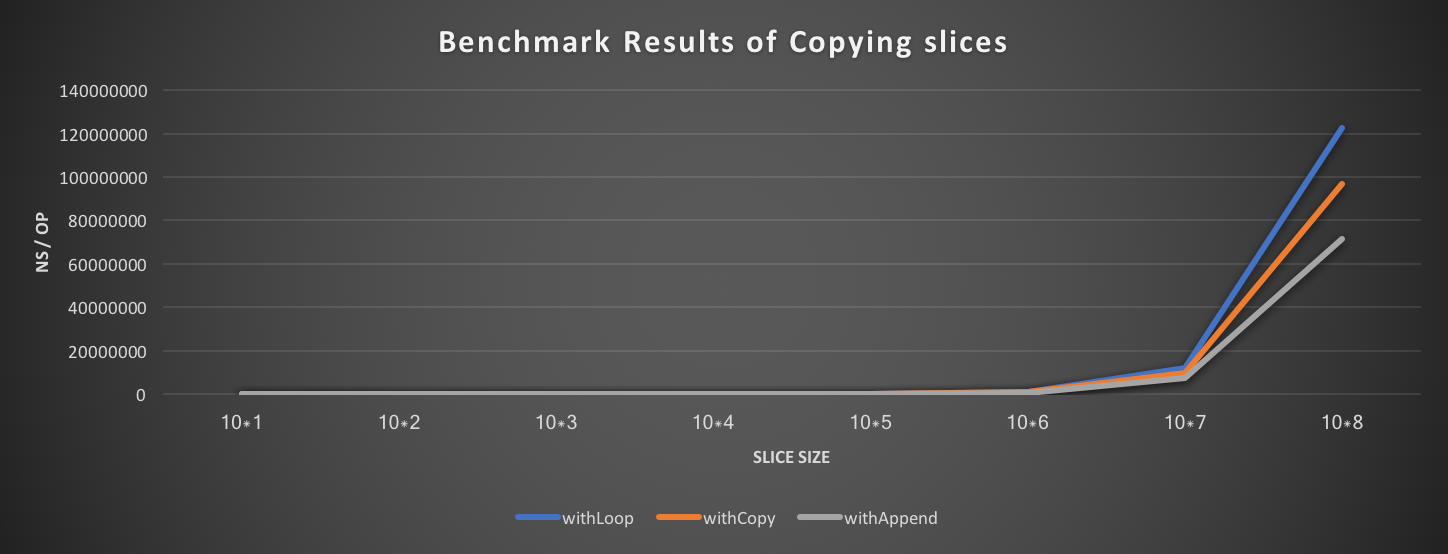
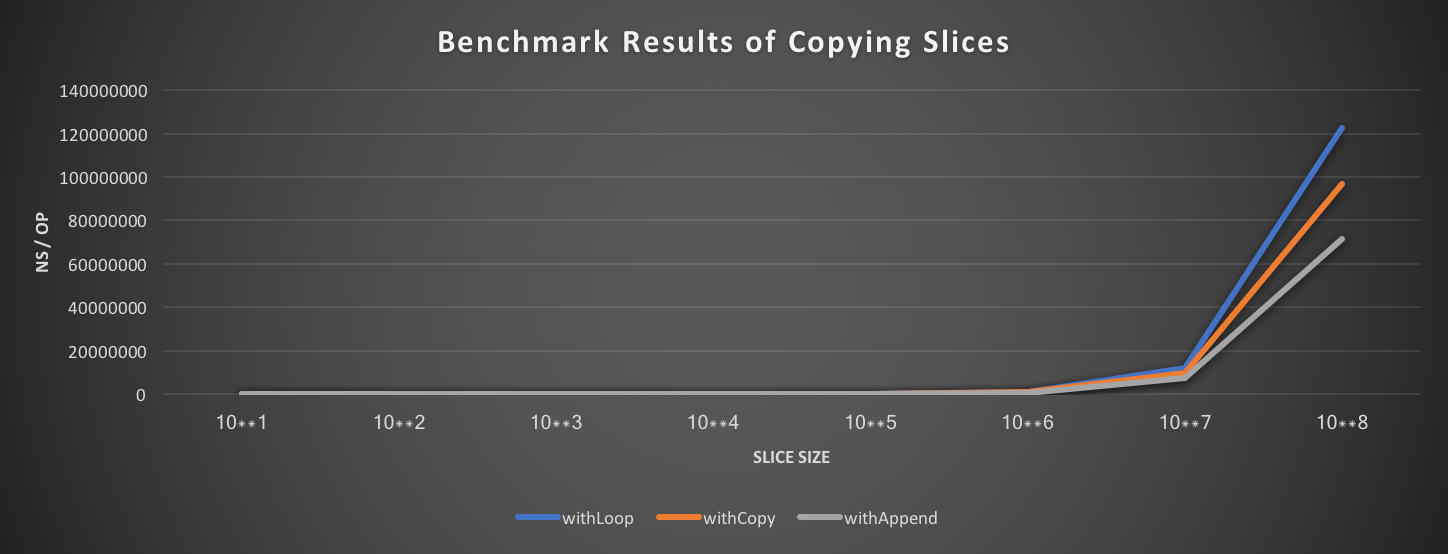
update

diff --git a/slice_copy/main_test.go b/slice_copy/main_test.go
@@ -39,7 +39,7 @@ func BenchmarkCopy(b *testing.B) {
 		n *= 10
 		src := newSlice(n)
 		for _, copyFunc := range copyFuncs {
-			b.Run(fmt.Sprintf("10*%d_%s", i, copyFunc.name), func(b *testing.B) {
+			b.Run(fmt.Sprintf("10**%d_%s", i, copyFunc.name), func(b *testing.B) {
 				for j := 0; j < b.N; j++ {
 					dst := copyFunc.f(src)
 					if src[0] != dst[0] {

diff --git a/slice_copy/README.md b/slice_copy/README.md
@@ -2,30 +2,30 @@
 
 ```bash
 $ go test -bench . -benchmem
-BenchmarkCopy/10*1_withLoop-4         	30000000	        38.6 ns/op	      80 B/op	       1 allocs/op
-BenchmarkCopy/10*1_withCopy-4         	30000000	        37.8 ns/op	      80 B/op	       1 allocs/op
-BenchmarkCopy/10*1_withAppend-4       	30000000	        42.8 ns/op	      80 B/op	       1 allocs/op
-BenchmarkCopy/10*2_withLoop-4         	10000000	       179 ns/op	     896 B/op	       1 allocs/op
-BenchmarkCopy/10*2_withCopy-4         	10000000	       141 ns/op	     896 B/op	       1 allocs/op
-BenchmarkCopy/10*2_withAppend-4       	10000000	       148 ns/op	     896 B/op	       1 allocs/op
-BenchmarkCopy/10*3_withLoop-4         	 1000000	      1452 ns/op	    8192 B/op	       1 allocs/op
-BenchmarkCopy/10*3_withCopy-4         	 1000000	      1081 ns/op	    8192 B/op	       1 allocs/op
-BenchmarkCopy/10*3_withAppend-4       	 1000000	      1081 ns/op	    8192 B/op	       1 allocs/op
-BenchmarkCopy/10*4_withLoop-4         	  100000	     10507 ns/op	   81920 B/op	       1 allocs/op
-BenchmarkCopy/10*4_withCopy-4         	  200000	      7859 ns/op	   81920 B/op	       1 allocs/op
-BenchmarkCopy/10*4_withAppend-4       	  200000	      6140 ns/op	   81920 B/op	       1 allocs/op
-BenchmarkCopy/10*5_withLoop-4         	   10000	    110424 ns/op	  802816 B/op	       1 allocs/op
-BenchmarkCopy/10*5_withCopy-4         	   20000	     96171 ns/op	  802816 B/op	       1 allocs/op
-BenchmarkCopy/10*5_withAppend-4       	   20000	     61012 ns/op	  802816 B/op	       1 allocs/op
-BenchmarkCopy/10*6_withLoop-4         	    2000	   1074627 ns/op	 8003584 B/op	       1 allocs/op
-BenchmarkCopy/10*6_withCopy-4         	    2000	    944862 ns/op	 8003584 B/op	       1 allocs/op
-BenchmarkCopy/10*6_withAppend-4       	    2000	    543883 ns/op	 8003584 B/op	       1 allocs/op
-BenchmarkCopy/10*7_withLoop-4         	     100	  11845974 ns/op	80003072 B/op	       1 allocs/op
-BenchmarkCopy/10*7_withCopy-4         	     200	   9444783 ns/op	80003072 B/op	       1 allocs/op
-BenchmarkCopy/10*7_withAppend-4       	     200	   7172734 ns/op	80003072 B/op	       1 allocs/op
-BenchmarkCopy/10*8_withLoop-4         	      10	 122678266 ns/op	800006144 B/op	       1 allocs/op
-BenchmarkCopy/10*8_withCopy-4         	      20	  96970846 ns/op	800006144 B/op	       1 allocs/op
-BenchmarkCopy/10*8_withAppend-4       	      20	  71296331 ns/op	800006144 B/op	       1 allocs/op
+BenchmarkCopy/10**1_withLoop-4         	30000000	        38.6 ns/op	      80 B/op	       1 allocs/op
+BenchmarkCopy/10**1_withCopy-4         	30000000	        37.8 ns/op	      80 B/op	       1 allocs/op
+BenchmarkCopy/10**1_withAppend-4       	30000000	        42.8 ns/op	      80 B/op	       1 allocs/op
+BenchmarkCopy/10**2_withLoop-4         	10000000	       179 ns/op	     896 B/op	       1 allocs/op
+BenchmarkCopy/10**2_withCopy-4         	10000000	       141 ns/op	     896 B/op	       1 allocs/op
+BenchmarkCopy/10**2_withAppend-4       	10000000	       148 ns/op	     896 B/op	       1 allocs/op
+BenchmarkCopy/10**3_withLoop-4         	 1000000	      1452 ns/op	    8192 B/op	       1 allocs/op
+BenchmarkCopy/10**3_withCopy-4         	 1000000	      1081 ns/op	    8192 B/op	       1 allocs/op
+BenchmarkCopy/10**3_withAppend-4       	 1000000	      1081 ns/op	    8192 B/op	       1 allocs/op
+BenchmarkCopy/10**4_withLoop-4         	  100000	     10507 ns/op	   81920 B/op	       1 allocs/op
+BenchmarkCopy/10**4_withCopy-4         	  200000	      7859 ns/op	   81920 B/op	       1 allocs/op
+BenchmarkCopy/10**4_withAppend-4       	  200000	      6140 ns/op	   81920 B/op	       1 allocs/op
+BenchmarkCopy/10**5_withLoop-4         	   10000	    110424 ns/op	  802816 B/op	       1 allocs/op
+BenchmarkCopy/10**5_withCopy-4         	   20000	     96171 ns/op	  802816 B/op	       1 allocs/op
+BenchmarkCopy/10**5_withAppend-4       	   20000	     61012 ns/op	  802816 B/op	       1 allocs/op
+BenchmarkCopy/10**6_withLoop-4         	    2000	   1074627 ns/op	 8003584 B/op	       1 allocs/op
+BenchmarkCopy/10**6_withCopy-4         	    2000	    944862 ns/op	 8003584 B/op	       1 allocs/op
+BenchmarkCopy/10**6_withAppend-4       	    2000	    543883 ns/op	 8003584 B/op	       1 allocs/op
+BenchmarkCopy/10**7_withLoop-4         	     100	  11845974 ns/op	80003072 B/op	       1 allocs/op
+BenchmarkCopy/10**7_withCopy-4         	     200	   9444783 ns/op	80003072 B/op	       1 allocs/op
+BenchmarkCopy/10**7_withAppend-4       	     200	   7172734 ns/op	80003072 B/op	       1 allocs/op
+BenchmarkCopy/10**8_withLoop-4         	      10	 122678266 ns/op	800006144 B/op	       1 allocs/op
+BenchmarkCopy/10**8_withCopy-4         	      20	  96970846 ns/op	800006144 B/op	       1 allocs/op
+BenchmarkCopy/10**8_withAppend-4       	      20	  71296331 ns/op	800006144 B/op	       1 allocs/op
 PASS
 ok  	github.com/keijiyoshida/goperf/slice_copy	44.148s
 ```
